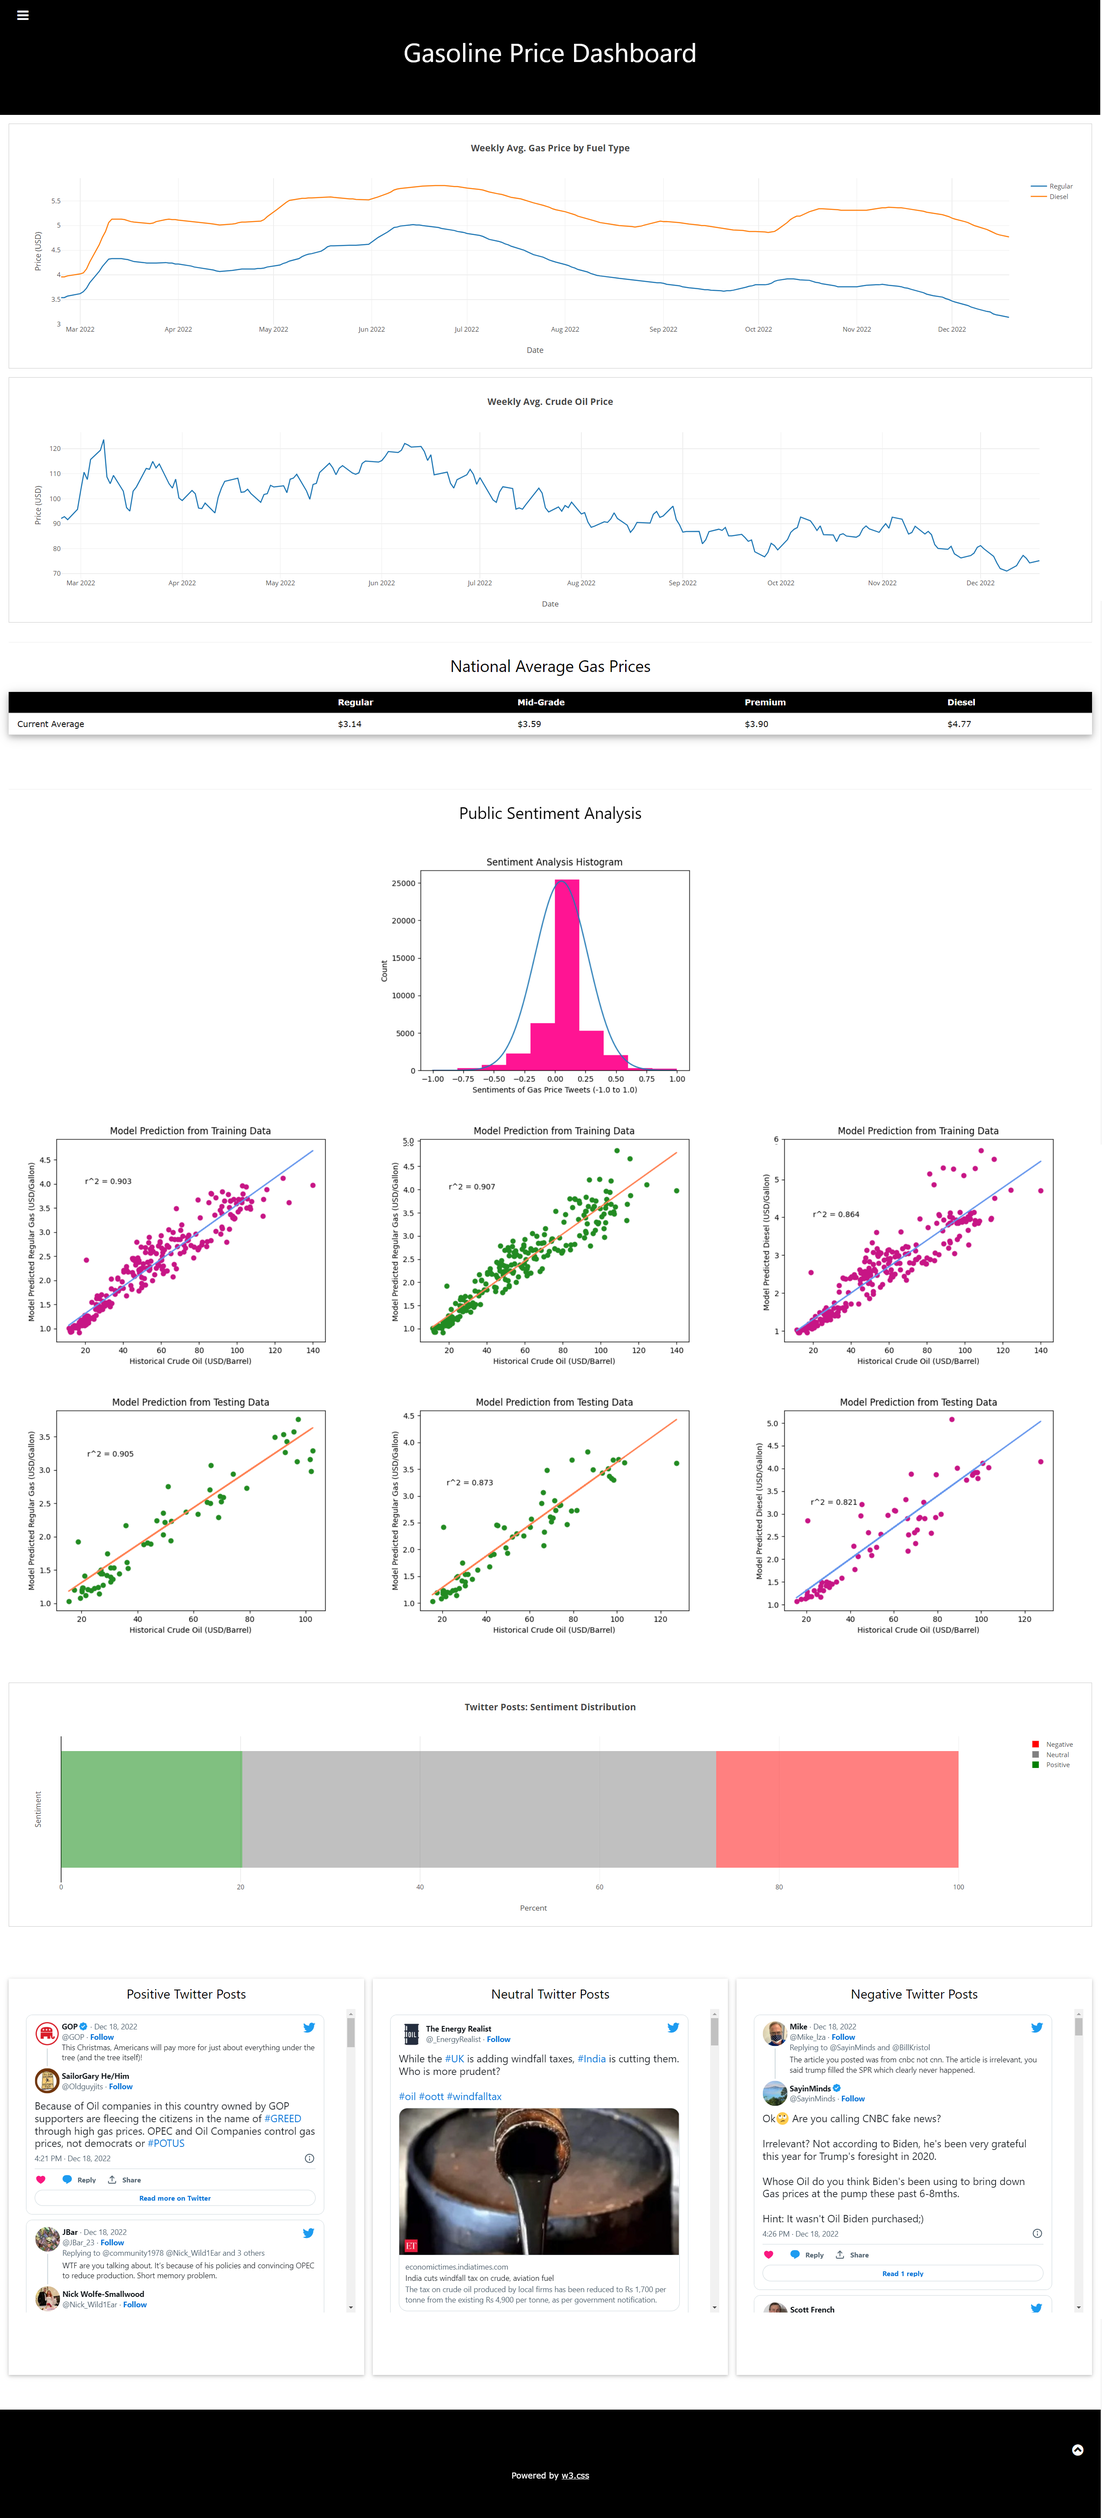
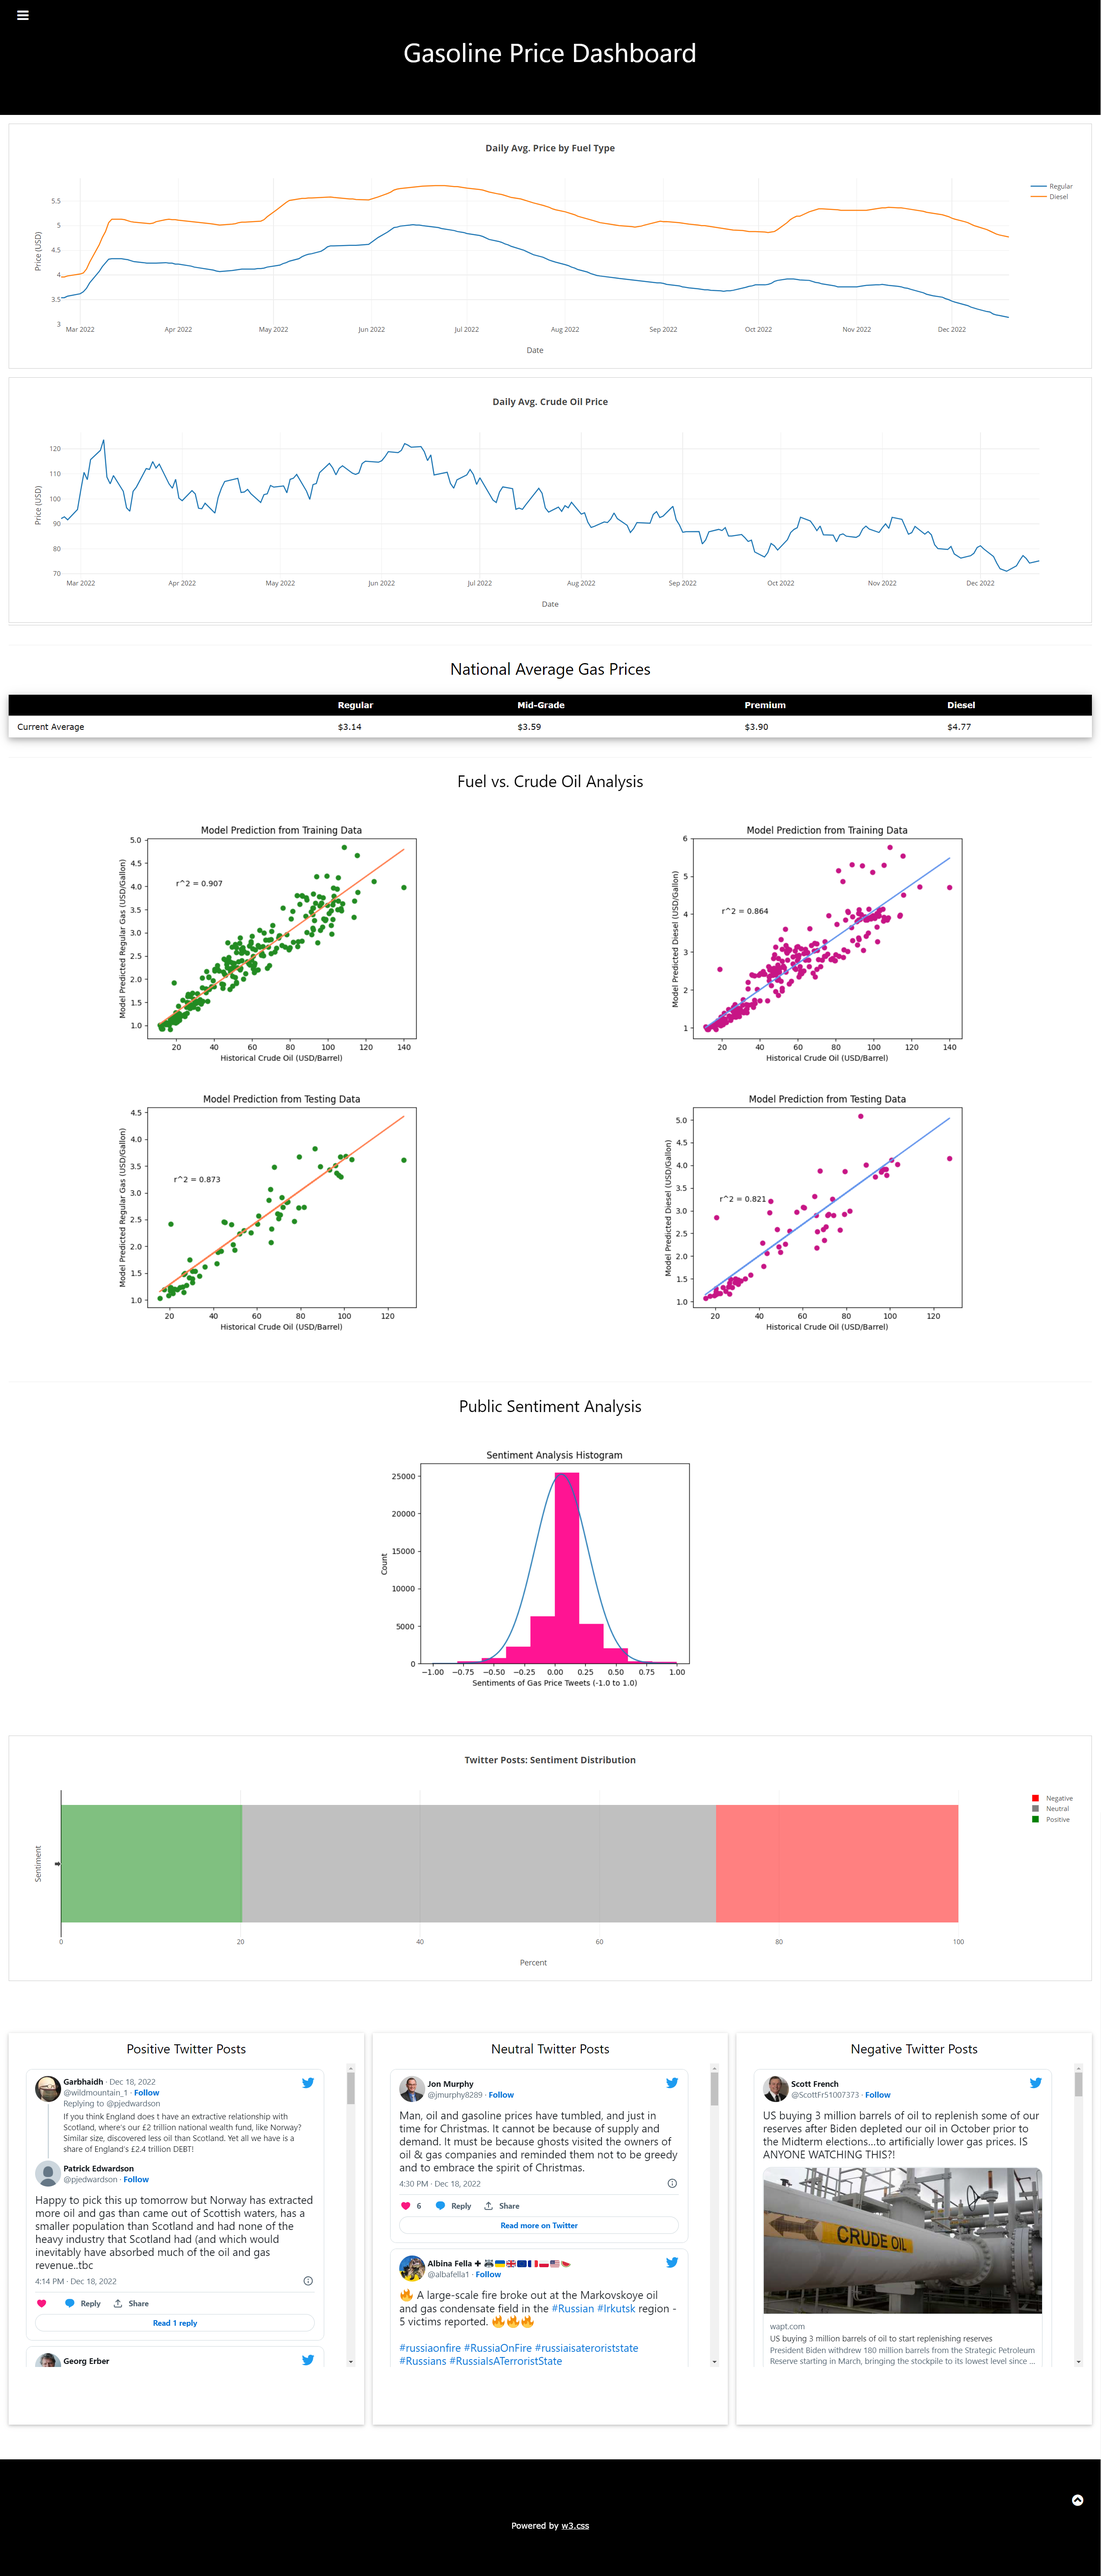
changing dashboard layout and correcting graph titles

diff --git a/public/views/index.html b/public/views/index.html
@@ -29,7 +29,7 @@
         </div>
     </header>
 
-    <!-- Line Chart -->
+    <!-- Line Charts -->
     <div class="w3-row w3-center w3-margin">
         <div class="w3-col w3-container w3-border">
             <div id="lineChart01"></div>               
@@ -64,6 +64,32 @@
         </table>
     </div>
 
+    <!-- Fuel Machine Learning Analysis Graphs -->
+    <div class="w3-container">
+        <hr>
+        <div class="w3-center">
+          <h2>Fuel vs. Crude Oil Analysis</h2>
+        </div>
+    </div>
+
+    <div class="w3-row-padding w3-center w3-margin-top">
+        <div class="w3-half">
+            <img src="../images/gas_training_fig.png"/>
+        </div>
+        <div class="w3-half">
+            <img src="../images/diesel_training_fig.png"/>
+        </div>
+    </div>
+
+    <div class="w3-row-padding w3-center w3-margin-top">
+        <div class="w3-half">
+            <img src="../images/gas_testing_fig.png"/>
+        </div>
+        <div class="w3-half">
+            <img src="../images/diesel_testing_fig.png"/>
+        </div>
+    </div>
+    
     <div class="w3-padding-32"></div>  
 
     <!-- Sentiment Graphs -->
@@ -77,29 +103,6 @@
     <div class="w3-row-padding w3-center w3-margin-top">
         <img src="../images/sentiment_hist.png"/>
     </div>
-    <div class="w3-row-padding w3-center w3-margin-top">
-        <div class="w3-third">
-            <img src="../images/training_fig.png"/>
-        </div>
-        <div class="w3-third">
-            <img src="../images/gas_training_fig.png"/>
-        </div>
-        <div class="w3-third">
-            <img src="../images/diesel_training_fig.png"/>
-        </div>
-    </div>
-
-    <div class="w3-row-padding w3-center w3-margin-top">
-        <div class="w3-third">
-            <img src="../images/testing_fig.png"/>
-        </div>
-        <div class="w3-third">
-            <img src="../images/gas_testing_fig.png"/>
-        </div>
-        <div class="w3-third">
-            <img src="../images/diesel_testing_fig.png"/>
-        </div>
-    </div>
 
     <div class="w3-padding-32"></div>  
 
@@ -108,6 +111,7 @@
             <div id="barChart01"></div>           
         </div>
     </div>
+
     
     
     

diff --git a/public/js/index.js b/public/js/index.js
@@ -116,7 +116,7 @@ function buildLineChart(sample) {
     
     // Plot the first chart.
     var lineLayout={
-        title: "<b>Weekly Avg. Gas Price by Fuel Type</b>",
+        title: "<b>Daily Avg. Price by Fuel Type</b>",
         xaxis: {title: "Date"},
         yaxis: {title: "Price (USD)"}
     };
@@ -127,7 +127,7 @@ function buildLineChart(sample) {
 
     // Plot the second chart.
     var lineLayout2={
-        title: "<b>Weekly Avg. Crude Oil Price</b>",
+        title: "<b>Daily Avg. Crude Oil Price</b>",
         xaxis: {title: "Date"},
         yaxis: {title: "Price (USD)"}
     };
@@ -142,7 +142,6 @@ function buildSentimentChart(sentiment_dict){
 
     var json_obj = sentiment_dict;
     var total = json_obj.Negative + json_obj.Neutral + json_obj.Positive;
-    console.log(total);
 
     var trace1 = {
         x: [(json_obj.Positive/total)*100],
